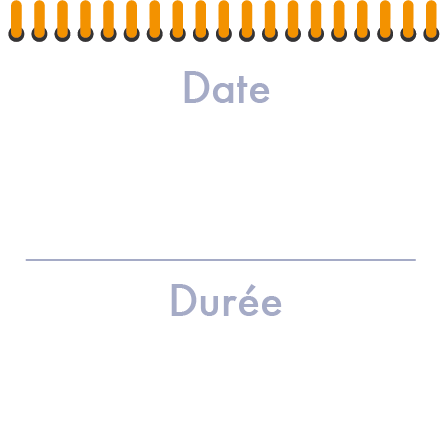
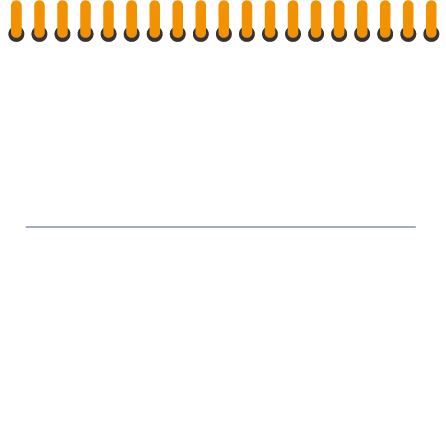
Boutons sélection date et event

Changed region(s): [[0.0583, 0.5188, 0.9327, 0.5493], [0.3789, 0.6408, 0.6413, 0.7629], [0.4081, 0.1526, 0.6121, 0.2441]]

diff --git a/app/components/directeur/directeur_accueil0.js b/app/components/directeur/directeur_accueil0.js
@@ -38,21 +38,30 @@ class Directeur_Accueil_0 extends React.Component {
       source={require('../../img/logo_bas.png')}
       style={styles.logo}/>
       <Text style={styles.emphasis}> N''hésitez plus ! </Text>
+
       <Text style={styles.body}> Créez de la vie dans votre lycée ! </Text>
+      <View style={styles.calendar}>
         <Image
         source={require('../../img/calendrier.png')}
-        style={styles.calendar}/>
-      <TouchableOpacity onPress={this._showDateTimePicker}>
-        <View style={styles.button}>
-          <Text> C''est parti ! </Text>
-        </View>
-      </TouchableOpacity>
-      <DateTimePicker
-        isVisible={this.state.isDateTimePickerVisible}
-        onConfirm={this._handleDatePicked}
-        onCancel={this._hideDateTimePicker}
-        mode={'date'}
-      />
+        style={styles.backgroundCalendar}>
+          <TouchableOpacity onPress={this._showDateTimePicker}>
+            <View style={styles.dateButton}>
+              <Text style={styles.buttonText}> Date </Text>
+            </View>
+          </TouchableOpacity>
+          <TouchableOpacity onPress={this._showDateTimePicker} style={styles.eventButton}>
+            <View style={styles.eventButton}>
+              <Text style={styles.buttonText}> Event </Text>
+            </View>
+          </TouchableOpacity>
+          <DateTimePicker
+          isVisible={this.state.isDateTimePickerVisible}
+          onConfirm={this._handleDatePicked}
+          onCancel={this._hideDateTimePicker}
+          mode={'date'}
+          />
+        </Image>
+      </View>
       <Bottom_navigation/>
       </View>
     )
@@ -74,9 +83,15 @@ var styles = StyleSheet.create({
     marginBottom: 20
   },
   calendar: {
-    height: 220,
-    width: 220,
-    marginTop: 20
+    width: 250,
+    height: 250,
+    alignSelf: 'center',
+  },
+  backgroundCalendar: {
+    flex: 1,
+    height: null,
+    width: null,
+    resizeMode: 'contain'
   },
   body: {
     color: 'white',
@@ -88,14 +103,22 @@ var styles = StyleSheet.create({
     color: '#f39200',
     fontSize: 20,
   },
-  button: {
-    backgroundColor: 'lightblue',
-    padding: 12,
-    margin: 16,
+  dateButton: {
+    height: 120,
+    marginTop: 10,
     justifyContent: 'center',
     alignItems: 'center',
-    borderRadius: 4,
-    borderColor: 'rgba(0, 0, 0, 0.1)',
+  },
+  eventButton: {
+
+    height: 120,
+    justifyContent: 'center',
+    alignItems: 'center',
+  },
+  buttonText: {
+    color: '#C7C7CC',
+    fontSize: 30,
+    backgroundColor: 'white',
   }
 });
 module.exports = Directeur_Accueil_0;

diff --git a/app/components/register_login/login.js b/app/components/register_login/login.js
@@ -98,8 +98,8 @@ var styles = StyleSheet.create({
 
   formContainer: {
     width:300,
-    alignSelf: 'stretch',
-    marginHorizontal: 40,
+    alignSelf: 'center',
+    marginHorizontal: 60,
     backgroundColor: 'white',
   },
   form: {
@@ -107,10 +107,10 @@ var styles = StyleSheet.create({
   },
   formField: {
     fontSize: 12,
-    alignItems:'center',
   },
   icon: {
-    alignSelf:'center',
+    flexDirection: 'row',
+    alignSelf: 'center',
     fontSize:20,
   },
 
